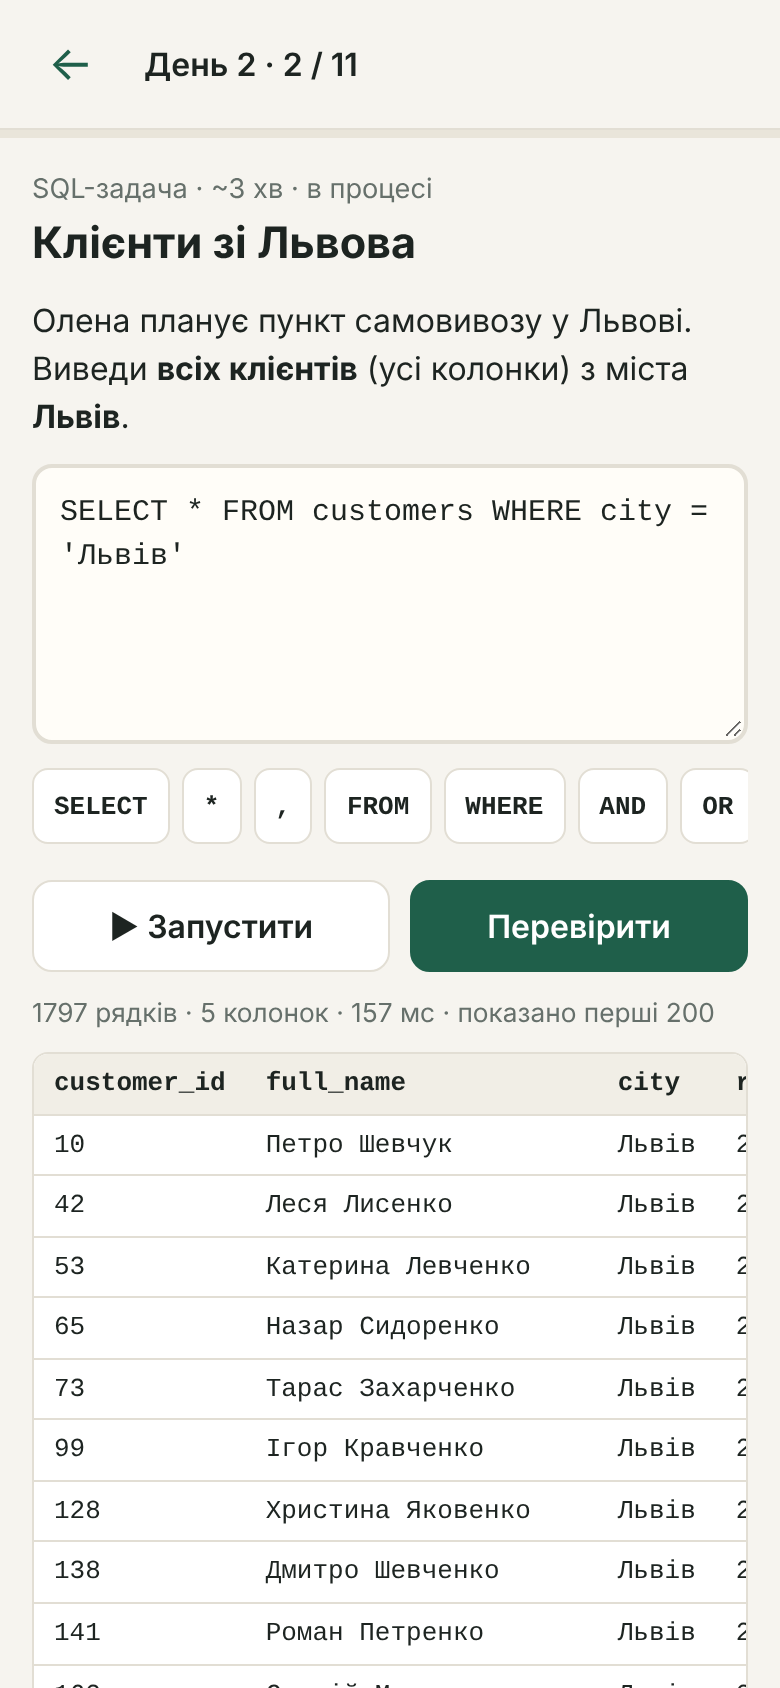
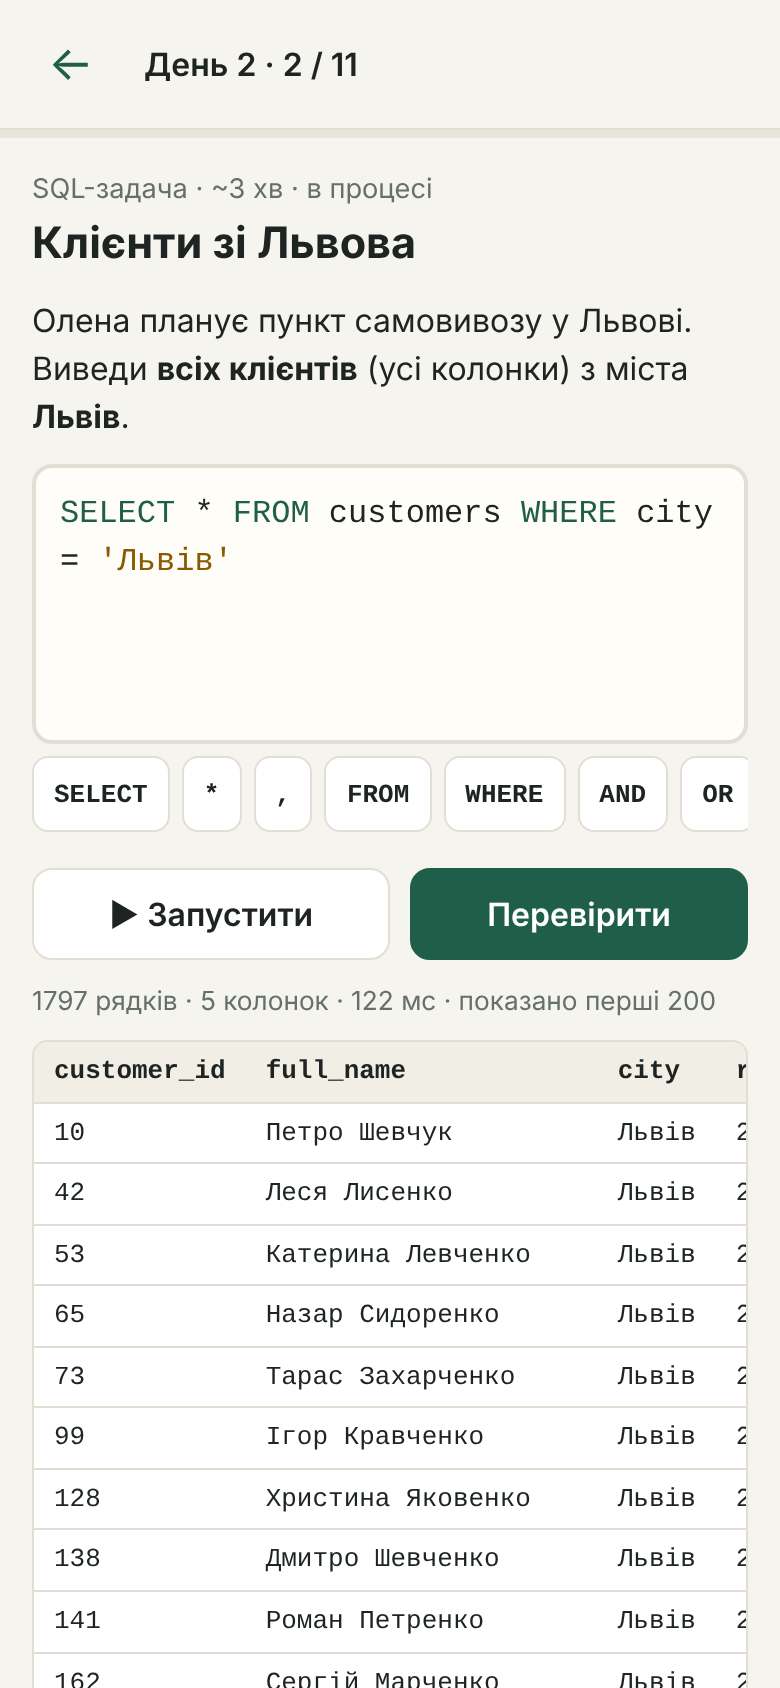
Редактор: підсвічування SQL (overlay), Ctrl+Enter, кнопки вмикаються при готовності БД без перемальовування
Claude-Session: https://claude.ai/code/session_01WZi5PxHh668CNC5jfhN5gk

diff --git a/app/js/main.js b/app/js/main.js
@@ -3,6 +3,7 @@
  * Без фреймворків: стан у store (storage.js), рендер — шаблонні рядки, події — делегування.
  * CoLaba Production
  */
+import { editorHtml, syncEditor, handleRunShortcut } from './editor.js';
 import { LocalStorageAdapter, MemoryAdapter, createProgressStore } from './storage.js';
 import { createDb } from './db.js';
 import { hintAvailability, getHint } from './mentor.js';
@@ -147,7 +148,7 @@ function renderExercise(id) {
     </main>`;
   if (ex.type === 'sql') {
     const ta = $app.querySelector('textarea.sql');
-    if (ta && document.activeElement !== ta && !passed) { /* не фокусуємо автоматично на телефоні — клавіатура закриває екран */ }
+    syncEditor(ta); // не фокусуємо автоматично на телефоні — клавіатура закриває екран
   }
 }
 
@@ -200,7 +201,7 @@ function sqlBody(ex) {
   const code = st.code != null ? st.code : (ex.starter || '');
   const ready = state.dbStatus === 'ready';
   return `<p class="prompt">${md(ex.prompt)}</p>
-    <textarea class="sql" spellcheck="false" autocapitalize="off" autocomplete="off" autocorrect="off" data-testid="editor" aria-label="SQL-редактор">${esc(code)}</textarea>
+    ${editorHtml(code, 'spellcheck="false" autocapitalize="off" autocomplete="off" autocorrect="off" data-testid="editor" aria-label="SQL-редактор"', esc)}
     <div class="kbar" aria-label="Ключові слова">${KEYWORDS.map((k) => `<button class="k" data-act="kw" data-k="${esc(k)}">${esc(k)}</button>`).join('')}</div>
     <div class="actions">
       <button class="btn" data-act="run" ${ready && !state.busy ? '' : 'disabled'} data-testid="run">▶ Запустити</button>
@@ -393,6 +394,7 @@ async function checkSql(ex, sql) {
 function onInput(e) {
   const ta = e.target.closest('textarea.sql');
   if (!ta) return;
+  syncEditor(ta);
   const ex = currentEx();
   if (!ex) return;
   const st = store.exercise(ex.id);
@@ -437,13 +439,20 @@ async function boot() {
       if (s === 'ready') { state.dbInfo = info; window.__vmikoDbInfo = info; }
       if (s === 'error') state.dbError = info;
       if (!$app.querySelector('textarea.sql:focus')) rerender();
-      else { const el = $app.querySelector('.db-status'); if (el) el.textContent = dbStatusText(); }
+      else {
+        // курсор у редакторі — не перемальовуємо, лише оновлюємо статус і кнопки
+        const el = $app.querySelector('.db-status'); if (el) el.textContent = dbStatusText();
+        const ready = s === 'ready' && !state.busy;
+        $app.querySelectorAll('button[data-act="run"], button[data-act="check-sql"]').forEach((b) => { b.disabled = !ready; });
+      }
     },
   });
   db.init().catch((e) => console.error('DB init failed', e));
 
   $app.addEventListener('click', onClick);
   $app.addEventListener('input', onInput);
+  $app.addEventListener('keydown', (e) => handleRunShortcut(e, $app));
+  window.addEventListener('resize', () => syncEditor($app.querySelector('textarea.sql')));
   window.addEventListener('hashchange', route);
   route();
   window.__vmiko = { store, db, state }; // для автотестів і налагодження

diff --git a/app/js/editor.js b/app/js/editor.js
@@ -1,0 +1,54 @@
+/*
+ * Підсвічування синтаксису SQL: прозорий <textarea> поверх <pre> з розфарбованою копією тексту.
+ * Без залежностей. Текст і курсор лишаються рідними (textarea), тож клавіатура, виділення,
+ * автозбереження й автокорекція телефонів працюють як раніше. Див. docs/decisions.md, Р7.
+ * CoLaba Production
+ */
+const WORDS = new Set(('SELECT FROM WHERE GROUP BY HAVING ORDER LIMIT JOIN ON AS AND OR NOT IN BETWEEN LIKE ILIKE IS NULL ' +
+  'CASE WHEN THEN ELSE END DISTINCT COUNT SUM AVG MIN MAX DATE_TRUNC COALESCE NULLIF WITH OVER PARTITION ' +
+  'LEFT RIGHT INNER OUTER FULL CROSS USING UNION ALL ASC DESC OFFSET TRUE FALSE').split(' '));
+const TOKEN = /(--[^\n]*)|('(?:[^']|'')*'?)|(\b\d+(?:\.\d+)?\b)|([A-Za-z_][A-Za-z_0-9]*)/g;
+
+const esc = (s) => s.replace(/&/g, '&amp;').replace(/</g, '&lt;').replace(/>/g, '&gt;');
+
+/** Текст -> HTML зі span-ами. Довжина видимого тексту не змінюється (вирівнювання з textarea). */
+export function highlight(code) {
+  let out = '', last = 0, m;
+  TOKEN.lastIndex = 0;
+  while ((m = TOKEN.exec(code))) {
+    let cls = null;
+    if (m[1]) cls = 'c';
+    else if (m[2]) cls = 's';
+    else if (m[3]) cls = 'n';
+    else if (WORDS.has(m[4].toUpperCase())) cls = 'k';
+    out += esc(code.slice(last, m.index));
+    out += cls ? `<span class="t-${cls}">${esc(m[0])}</span>` : esc(m[0]);
+    last = m.index + m[0].length;
+  }
+  // завершальний пробіл, щоб остання порожня стрічка мала висоту в <pre>
+  return out + esc(code.slice(last)) + '\n ';
+}
+
+/** HTML редактора (для шаблону main.js). attrs — готовий рядок атрибутів textarea. */
+export function editorHtml(code, attrs, escFn) {
+  return `<div class="sqled"><pre class="sqled-hl" aria-hidden="true">${highlight(code)}</pre>` +
+    `<textarea class="sql" ${attrs}>${escFn(code)}</textarea></div>`;
+}
+
+/** Підігнати висоту textarea під текст і оновити підсвічування. */
+export function syncEditor(ta) {
+  if (!ta) return;
+  const pre = ta.previousElementSibling;
+  if (pre && pre.classList.contains('sqled-hl')) pre.innerHTML = highlight(ta.value);
+  ta.style.height = 'auto';
+  ta.style.height = (ta.scrollHeight + ta.offsetHeight - ta.clientHeight) + 'px';
+}
+
+/** Ctrl/Cmd+Enter у редакторі = «Запустити». Повертає true, якщо подію оброблено. */
+export function handleRunShortcut(e, root) {
+  if (e.key !== 'Enter' || !(e.ctrlKey || e.metaKey) || !e.target.matches || !e.target.matches('textarea.sql')) return false;
+  e.preventDefault();
+  const btn = root.querySelector('[data-act="run"]');
+  if (btn && !btn.disabled) btn.click();
+  return true;
+}

diff --git a/app/css/app.css b/app/css/app.css
@@ -62,8 +62,16 @@ h2 { font-size: 1.1rem; margin: 0 0 .5rem; }
 .explain { margin: -2px 4px 6px; font-size: .92rem; }
 .explain.right { color: var(--ok); } .explain.wrong { color: var(--bad); }
 
-textarea.sql { width: 100%; min-height: 140px; font: 15px/1.45 var(--mono); padding: 12px; border: 2px solid var(--line); border-radius: 10px; background: #fffdf8; color: var(--ink); resize: vertical; }
+.sqled { position: relative; background: #fffdf8; border-radius: 10px; }
+.sqled-hl, textarea.sql { margin: 0; width: 100%; border: 2px solid var(--line); border-radius: 10px; padding: 12px; font: 16px/1.45 var(--mono); letter-spacing: 0; tab-size: 2; white-space: pre-wrap; overflow-wrap: anywhere; word-break: normal; box-sizing: border-box; }
+.sqled-hl { position: absolute; inset: 0; border-color: transparent; color: var(--ink); overflow: hidden; pointer-events: none; }
+textarea.sql { position: relative; display: block; min-height: 140px; background: transparent; color: transparent; -webkit-text-fill-color: transparent; caret-color: var(--ink); resize: none; overflow: hidden; -webkit-appearance: none; appearance: none; }
+textarea.sql::selection { background: rgba(31, 95, 74, .25); -webkit-text-fill-color: transparent; }
 textarea.sql:focus { outline: none; border-color: var(--brand); }
+.t-k { color: var(--brand); }
+.t-s { color: #8a5a00; }
+.t-n { color: #5866b3; }
+.t-c { color: var(--muted); font-style: italic; }
 .kbar { display: flex; gap: 6px; overflow-x: auto; padding: 6px 0; -webkit-overflow-scrolling: touch; scrollbar-width: none; }
 .kbar .k { flex: 0 0 auto; font: 600 13px var(--mono); border: 1px solid var(--line); background: var(--card); border-radius: 8px; padding: 8px 10px; min-height: 38px; cursor: pointer; color: var(--ink); }
 pre.sql-ro { font: 14px/1.4 var(--mono); background: #efece3; padding: 10px 12px; border-radius: 8px; white-space: pre-wrap; overflow-wrap: anywhere; margin: 8px 0; }

diff --git a/app/sw.js b/app/sw.js
@@ -6,7 +6,7 @@
  * CoLaba Production
  */
 const HEAVY_VERSION = 'heavy-pglite-0.5.17-koshyk-1.0.0';
-const SHELL_VERSION = 'shell-v1';
+const SHELL_VERSION = 'shell-v2';
 const HEAVY = [
   'vendor/pglite/index.js',
   'vendor/pglite/chunk-BD5WXLQO.js', 'vendor/pglite/chunk-CTPU3OXM.js', 'vendor/pglite/chunk-KLBW4PNS.js',
@@ -17,7 +17,7 @@ const HEAVY = [
 ];
 const SHELL = [
   './', 'index.html', 'manifest.webmanifest', 'css/app.css',
-  'js/main.js', 'js/storage.js', 'js/db.js', 'js/db-worker.js', 'js/sqlrunner.js', 'js/checker.js', 'js/mentor.js',
+  'js/main.js', 'js/editor.js', 'js/storage.js', 'js/db.js', 'js/db-worker.js', 'js/sqlrunner.js', 'js/checker.js', 'js/mentor.js',
   'content/index.json', 'content/m1/day1.json', 'content/m1/day2.json',
   'icons/icon.svg', 'icons/icon-192.png', 'icons/icon-512.png',
 ];

diff --git a/docs/decisions.md b/docs/decisions.md
@@ -57,10 +57,24 @@
 - Режим `subset` — для `LIMIT` без `ORDER BY`: будь-які N рядків із правильної множини. Без нього вправи дня 1 були б недетермінованими.
 
 ## Р5. Редактор: `<textarea>` + панель ключових слів
-CodeMirror 6 без бандлера можна підключити лише з CDN (працює гірше офлайн) або вендорити десятки модулів. Для прототипу взяв textarea з моноширинним шрифтом і мобільною панеллю ключових слів. Підсвічування й автодоповнення (вимога спеки, тип 6) — **ще не зроблено**, див. status.md.
+CodeMirror 6 без бандлера можна підключити лише з CDN (працює гірше офлайн) або вендорити десятки модулів. Для прототипу взяв textarea з моноширинним шрифтом і мобільною панеллю ключових слів. Підсвічування — зроблено, див. Р7; автодоповнення (вимога спеки, тип 6) — **ще не зроблено**, див. status.md.
 
 ## Р6. Значення в даних
 Міста й способи доставки — українською (саме так їх побачить учень у результатах), коди статусів і каналів — англійською (`delivered`, `telegram`), як зазвичай у реальних базах. `price_uah`/`cost_uah` — цілі числа, на цьому тримається пастка цілочисельного ділення в М1 день 5. Прихований набір має масштаб 0,3: та сама схема й закономірності, менше рядків, швидше перевіряється.
+
+## Р7. Підсвічування SQL: overlay (`<textarea>` поверх `<pre>`), а не CodeMirror 6
+**Оцінка (а) CodeMirror 6.** Пакети `@codemirror/*` — десятки ES-модулів із взаємними імпортами за «голими» іменами; без бандлера їх треба або збирати (esbuild/rollup — нова залежність у проєкті, де її свідомо немає), або вендорити вручну з import map. Мінімальний набір із SQL-мовою — 150–300 КБ коду у precache, і він має свою модель вводу: на Android Chrome та iOS Safari CM6 працює через `contenteditable`, де відомі дефекти IME/автокорекції/виділення, а автозбереження, кнопки-вставки (`ta.value`, `setSelectionRange`) і тести (`fill` на textarea) довелося б переписувати. Плюси (автодоповнення, відступи, мультикурсор) — не потрібні зараз; коли дійдемо до автодоповнення, повернемося до питання.
+**Оцінка (б) overlay.** Текст і курсор лишаються у рідному `<textarea>`, тож клавіатура, виділення, автокорекція, `input`-події, `fill()` у тестах і вставка ключових слів працюють без змін. Підсвічена копія — у `<pre>` під ним. Код — 54 рядки (≈2,5 КБ) без залежностей, плюс ≈20 рядків CSS.
+**Рішення: (б)**, файл `app/js/editor.js`.
+Що зроблено, щоб overlay не «роз'їжджався»:
+- Однаковий шрифт, розмір, `line-height`, padding, border і `white-space: pre-wrap; overflow-wrap: anywhere` в обох шарах. Горизонтального скролу немає, тож синхронізувати прокрутку не треба.
+- Висота textarea підганяється під текст (`syncEditor`), `<pre>` розтягується на весь контейнер; `resize` вимкнено (ручка зміни розміру з overlay працює ненадійно).
+- Шрифт піднято з 15 до 16 px: у iOS Safari поле з шрифтом <16 px спричиняє автозум при фокусі.
+- Текст textarea прозорий (`color` і `-webkit-text-fill-color`), каретка видима (`caret-color`), `appearance: none` — щоб iOS не додавав свої внутрішні відступи.
+- Лише `<span>`-розмітка без зміни довжини тексту; в кінець `<pre>` додається `\n `, щоб остання порожня стрічка мала висоту.
+- Токенізатор — один регулярний вираз: `--` коментар, рядок у `'…'` (з `''`, незавершений підсвічується до кінця), число, слово (ключове, якщо є в `WORDS`). Кольори з палітри app.css: ключові слова `--brand` (#1f5f4a), рядки #8a5a00, числа #5866b3 (колір підказки 3 рівня), коментарі `--muted` курсивом; усі ≥ 5:1 на #fffdf8.
+- Ctrl/Cmd+Enter у редакторі натискає «Запустити» (якщо кнопка активна).
+**Обмеження:** немає підсвічування ідентифікаторів у подвійних лапках і `/* */`; автодоповнення немає; довгі рядки переносяться, а не прокручуються. Якщо в браузері вимкнено CSS-прозорість тексту (рідкісні режими «примусової темної теми»), текст дублюватиметься — перевірити на реальних пристроях.
 
 ---
 
